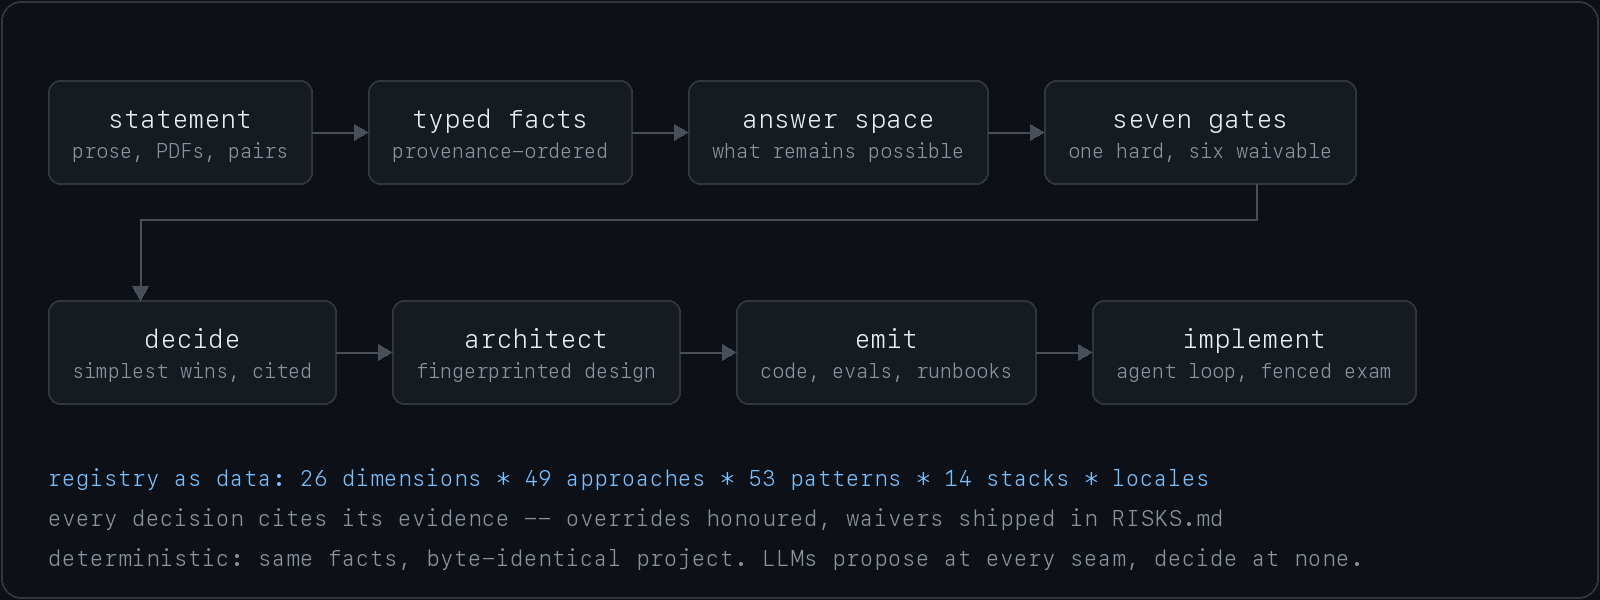
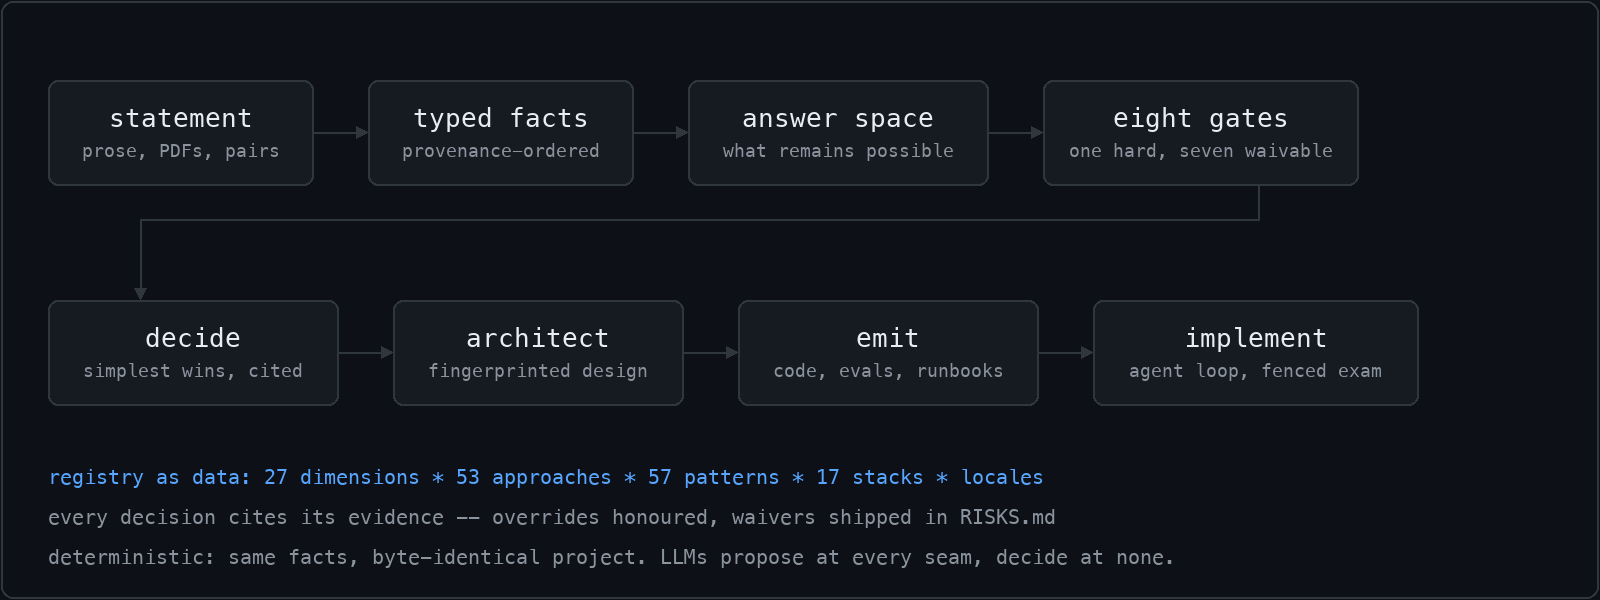
assets: the how-it-fits diagram drawn from the code -- eight gates and the registry counts read off the repository, with its generator beside it

diff --git a/assets/how-it-fits.py b/assets/how-it-fits.py
@@ -1,0 +1,103 @@
+"""Draw assets/how-it-fits.png: the pipeline as eight boxes and three lines.
+
+Run with the repository's own interpreter (`.venv/bin/python assets/how-it-fits.py`).
+The registry counts are read off framework/ so the image cannot drift from
+the corpus; the gate count is read off the gates module for the same reason.
+"""
+
+from __future__ import annotations
+
+from pathlib import Path
+
+from PIL import Image, ImageDraw, ImageFont
+
+ROOT = Path(__file__).resolve().parent.parent
+FONT = "/System/Library/Fonts/Menlo.ttc"
+BG, BOX, EDGE, TEXT, DIM, BLUE = ("#0d1117", "#161b22", "#30363d", "#e6edf3", "#8b949e",
+                                  "#58a6ff")
+
+
+def counts() -> dict[str, int]:
+    return {kind: len(list((ROOT / "framework" / kind).glob("*.md")))
+            for kind in ("dimensions", "approaches", "patterns", "stacks")}
+
+
+def gates() -> tuple[int, int]:
+    from fde.gates import input_status
+    from fde.models.profile import Profile
+
+    status = input_status(Profile())
+    hard = sum(1 for g in status.gates if g.hard)
+    return len(status.gates), hard
+
+
+WORDS = {8: "eight", 7: "seven", 6: "six", 9: "nine", 1: "one", 2: "two"}
+
+
+def main() -> None:
+    total, hard = gates()
+    reg = counts()
+    width, height = 1600, 600
+    image = Image.new("RGB", (width, height), BG)
+    draw = ImageDraw.Draw(image)
+    big = ImageFont.truetype(FONT, 26)
+    small = ImageFont.truetype(FONT, 18)
+    body = ImageFont.truetype(FONT, 20)
+    draw.rounded_rectangle((1, 1, width - 2, height - 2), radius=12, outline=EDGE, width=2)
+
+    def box(x, y, w, h, title, sub):
+        draw.rounded_rectangle((x, y, x + w, y + h), radius=10, fill=BOX, outline=EDGE,
+                               width=2)
+        tw = draw.textlength(title, font=big)
+        sw = draw.textlength(sub, font=small)
+        draw.text((x + (w - tw) / 2, y + 22), title, font=big, fill=TEXT)
+        draw.text((x + (w - sw) / 2, y + 60), sub, font=small, fill=DIM)
+
+    def arrow(x1, y, x2):
+        draw.line((x1, y, x2 - 10, y), fill=EDGE, width=2)
+        draw.polygon([(x2, y), (x2 - 12, y - 6), (x2 - 12, y + 6)], fill=EDGE)
+
+    row1 = [("statement", "prose, PDFs, pairs", 265),
+            ("typed facts", "provenance-ordered", 265),
+            ("answer space", "what remains possible", 300),
+            (f"{WORDS[total]} gates", f"{WORDS[hard]} hard, {WORDS[total - hard]} waivable", 315)]
+    x, y, h = 48, 80, 105
+    edges = []
+    for i, (title, sub, w) in enumerate(row1):
+        box(x, y, w, h, title, sub)
+        edges.append((x, x + w))
+        if i < len(row1) - 1:
+            arrow(x + w, y + h / 2, x + w + 55)
+        x += w + 55
+    row2 = [("decide", "simplest wins, cited", 290),
+            ("architect", "fingerprinted design", 290),
+            ("emit", "code, evals, runbooks", 300),
+            ("implement", "agent loop, fenced exam", 325)]
+    x2, y2 = 48, 300
+    last_x = edges[-1][1] - 100
+    draw.line((last_x, y + h, last_x, 220), fill=EDGE, width=2)
+    draw.line((last_x, 220, 140, 220), fill=EDGE, width=2)
+    draw.line((140, 220, 140, y2 - 12), fill=EDGE, width=2)
+    draw.polygon([(140, y2), (134, y2 - 12), (146, y2 - 12)], fill=EDGE)
+    for i, (title, sub, w) in enumerate(row2):
+        box(x2, y2, w, h, title, sub)
+        if i < len(row2) - 1:
+            arrow(x2 + w, y2 + h / 2, x2 + w + 55)
+        x2 += w + 55
+    lines = [
+        (f"registry as data: {reg['dimensions']} dimensions * {reg['approaches']} approaches * "
+         f"{reg['patterns']} patterns * {reg['stacks']} stacks * locales", BLUE),
+        ("every decision cites its evidence -- overrides honoured, waivers shipped in RISKS.md",
+         DIM),
+        ("deterministic: same facts, byte-identical project. LLMs propose at every seam, "
+         "decide at none.", DIM),
+    ]
+    for i, (text, colour) in enumerate(lines):
+        draw.text((48, 465 + i * 40), text, font=body, fill=colour)
+    out = ROOT / "assets" / "how-it-fits.png"
+    image.save(out, optimize=True)
+    print(f"wrote {out} ({total} gates, {hard} hard)")
+
+
+if __name__ == "__main__":
+    main()
